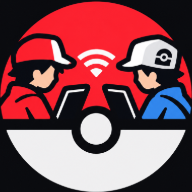
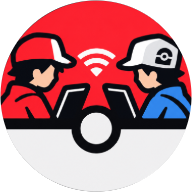
El icono deja de llevar un cuadrado negro detras
En la pestana se veia el recuadro del fondo alrededor de la bola. Se recorta en
redondo y lo de fuera queda transparente de verdad: 21% de la imagen sin pintar,
que es justo lo que deja un circulo dentro de un cuadrado.

No se quita el fondo por color a proposito. El negro tambien esta DENTRO del
dibujo -el contorno de la bola, la ropa de los entrenadores- asi que buscar
pixeles oscuros habria llenado el icono de agujeros. La bola es un circulo y se
recorta como tal.

De paso se va el border-radius de la cabecera, que ya no redondea nada: la
imagen viene redonda.

diff --git a/apps/web/src/styles.css b/apps/web/src/styles.css
@@ -68,12 +68,11 @@ body {
 }
 
 /* Antes esto era un cuadro amarillo con un triangulo dentro. Ahora es el
-   logotipo, asi que ni fondo ni centrado de texto: la imagen trae lo suyo. */
+   logotipo, asi que ni fondo, ni centrado de texto, ni esquinas redondeadas:
+   la imagen ya viene recortada en redondo y con el fondo transparente. */
 .brand__mark {
   width: 34px;
   height: 34px;
-  border-radius: 9px;
-  object-fit: cover;
   flex-shrink: 0;
 }
 
